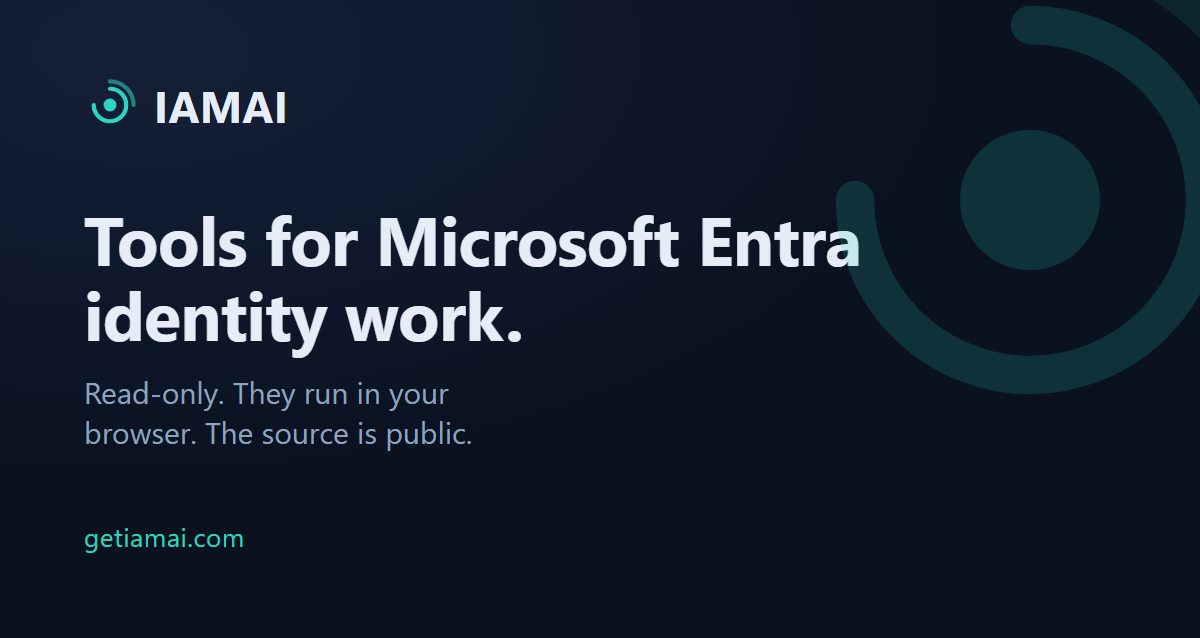
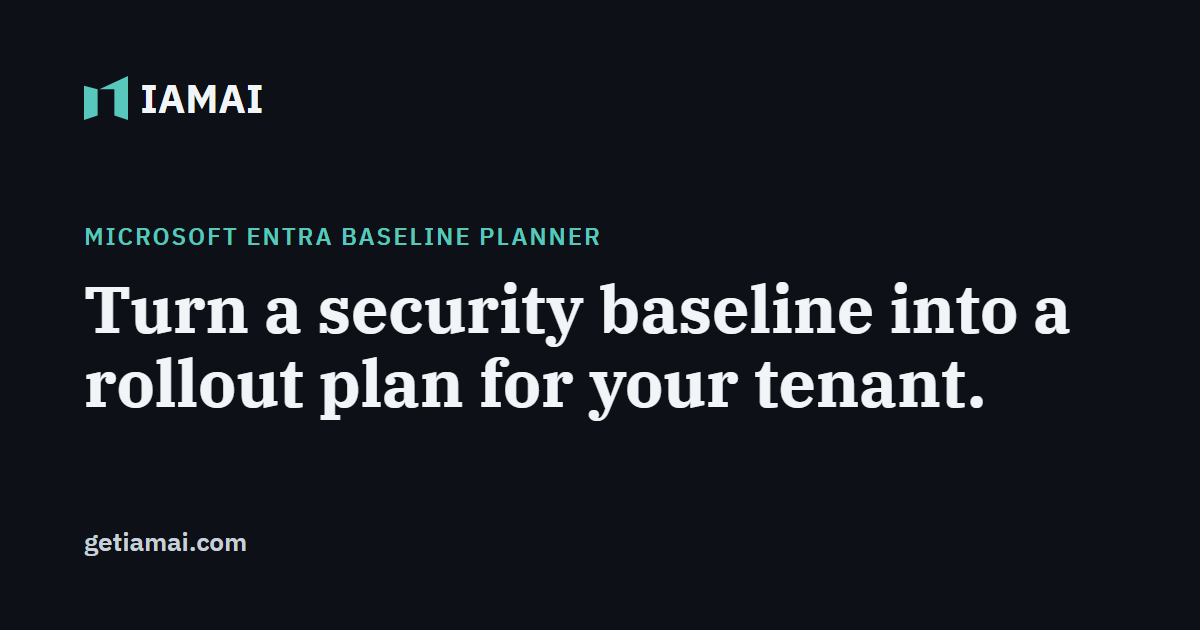
Home's headline names the plan: Turn a security baseline into a rollout plan for your tenant
The owner (2026-09-28): the old headline read as a What If check. The eyebrow,
the site line and the page description follow it; the site line carries the order
and the lockout prevention. Changed content keys (no new ones): pages.home.eyebrow,
h1, siteLine, metaDescription.

The picture a shared link shows (home/og.png) still had the old mark and the old
line; scripts/og-image.mjs now draws it from the same sources as Home.

Acceptance: getiamai.com's hero and its share picture read the new headline.
Test: src/ui/surfaces/consolidatedWording.test.ts pins it; src/home.test.ts.

Changed region(s): [[0.0, 0.0, 1.0, 0.6937], [0.8017, 0.181, 0.925, 0.4222], [0.0617, 0.8143, 0.2158, 0.8746]]

diff --git a/home/index.html b/home/index.html
@@ -8,11 +8,11 @@
     <meta http-equiv="Pragma" content="no-cache" />
     <meta http-equiv="Expires" content="0" />
     <title>IAMAI — Microsoft Entra Conditional Access planner</title>
-    <meta name="description" content="Check who could be affected by your Microsoft Entra security changes. IAMAI reviews your tenant and helps you plan the work before you deploy." />
+    <meta name="description" content="Turn a Conditional Access baseline into a dated rollout plan for your Microsoft Entra tenant: what to change, in what order, and who each change could affect." />
     <!-- Root-relative: src/network.test.ts reads an absolute link href as a request. og:url carries the absolute address. -->
     <link rel="canonical" href="/" />
     <meta property="og:title" content="IAMAI — Microsoft Entra Conditional Access planner" />
-    <meta property="og:description" content="Check who could be affected by your Microsoft Entra security changes. IAMAI reviews your tenant and helps you plan the work before you deploy." />
+    <meta property="og:description" content="Turn a Conditional Access baseline into a dated rollout plan for your Microsoft Entra tenant: what to change, in what order, and who each change could affect." />
     <meta property="og:type" content="website" />
     <meta property="og:url" content="https://getiamai.com/" />
     <meta property="og:image" content="https://getiamai.com/og.png" />
@@ -50,9 +50,9 @@
     <main class="page">
       <!-- The outcome, what IAMAI does about it, and the two ways in. -->
       <div class="hero">
-        <p class="eyebrow">Microsoft identity security</p>
-        <h1>Know what needs attention before you change a policy.</h1>
-        <p class="site-line">A policy can look right and still cause problems. IAMAI checks who has the required sign-in methods, whether the available records show they use them, and which exclusions or outside accounts need a closer look. Then it helps you plan the changes.</p>
+        <p class="eyebrow">Microsoft Entra baseline planner</p>
+        <h1>Turn a security baseline into a rollout plan for your tenant.</h1>
+        <p class="site-line">IAMAI reads your tenant, compares it with Jon Hope's Defense in Depth baseline, and writes a dated plan: what to change, in what order, and who each change could affect. It finds what could lock people out before you turn a policy on. Read-only, and it runs in your browser.</p>
         <p class="actions">
           <a class="btn btn-primary" href="/{{TOOL_PATH}}/#/connect">Connect your tenant</a>
           <a class="btn btn-secondary" href="/{{TOOL_PATH}}/?demo=1#/plan">Try it with sample data</a>

diff --git a/src/ui/surfaces/consolidatedWording.test.ts b/src/ui/surfaces/consolidatedWording.test.ts
@@ -15,7 +15,8 @@ const PACKAGES = (registry as unknown as { packages: Record<string, CompiledPack
 test('the public words make no predictive or blanket data claim, and the method disclosure says what IAMAI saves, without phone numbers', () => {
   {
     const home = pages.home
-    assert.match(String(home.h1), /before.*policy/i)
+    // The headline names the plan IAMAI writes (owner, 2026-09-28: the old one read as a What If check).
+    assert.match(String(home.h1), /rollout plan/i)
     assert.match(JSON.stringify(home), /method|exclu|sign-in/i)
     assert.match(JSON.stringify(home.trust), /browser/)
     const publicText = [JSON.stringify(pages.home), JSON.stringify(pages.connect), read('home/index.html'), read('README.md')].join('\n')
